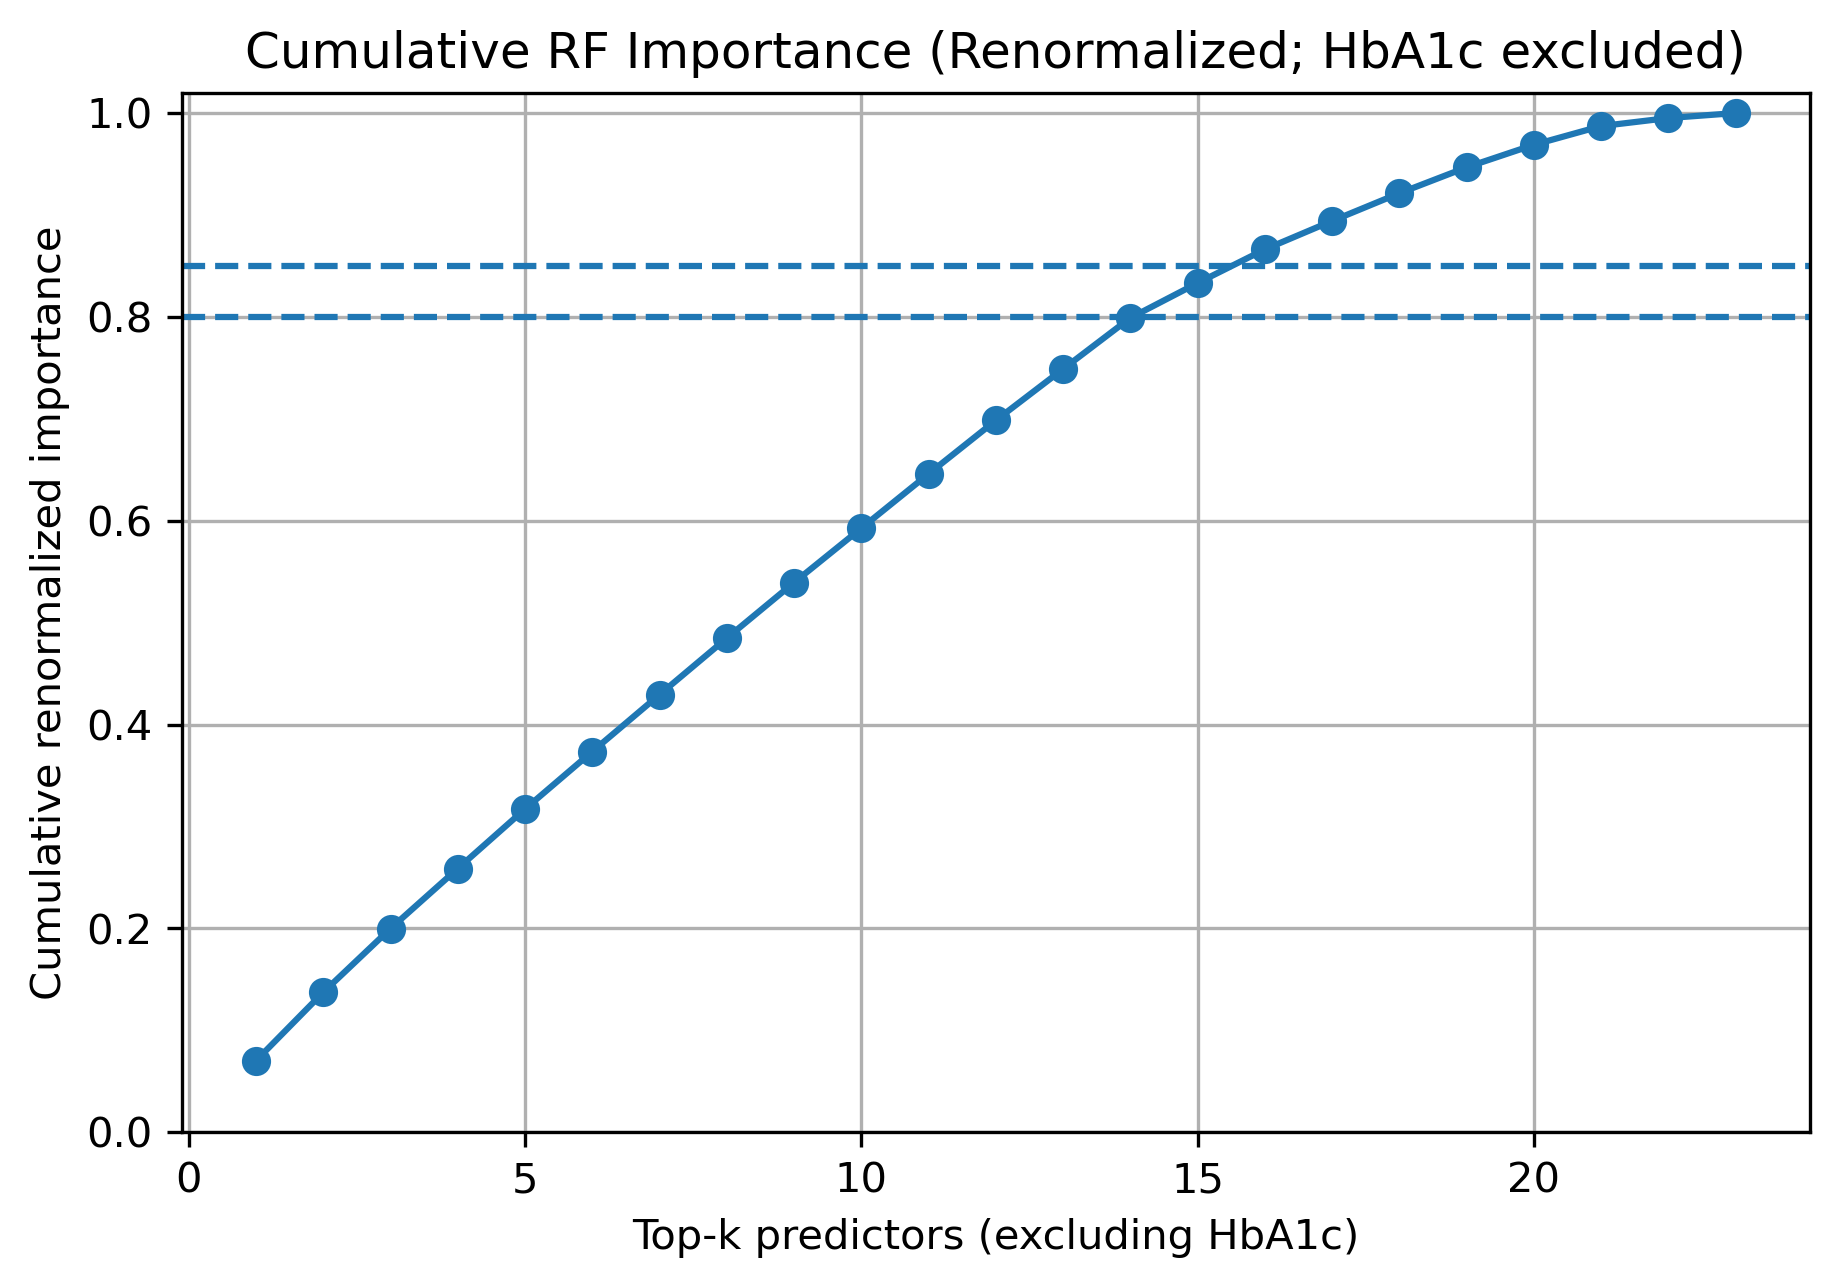
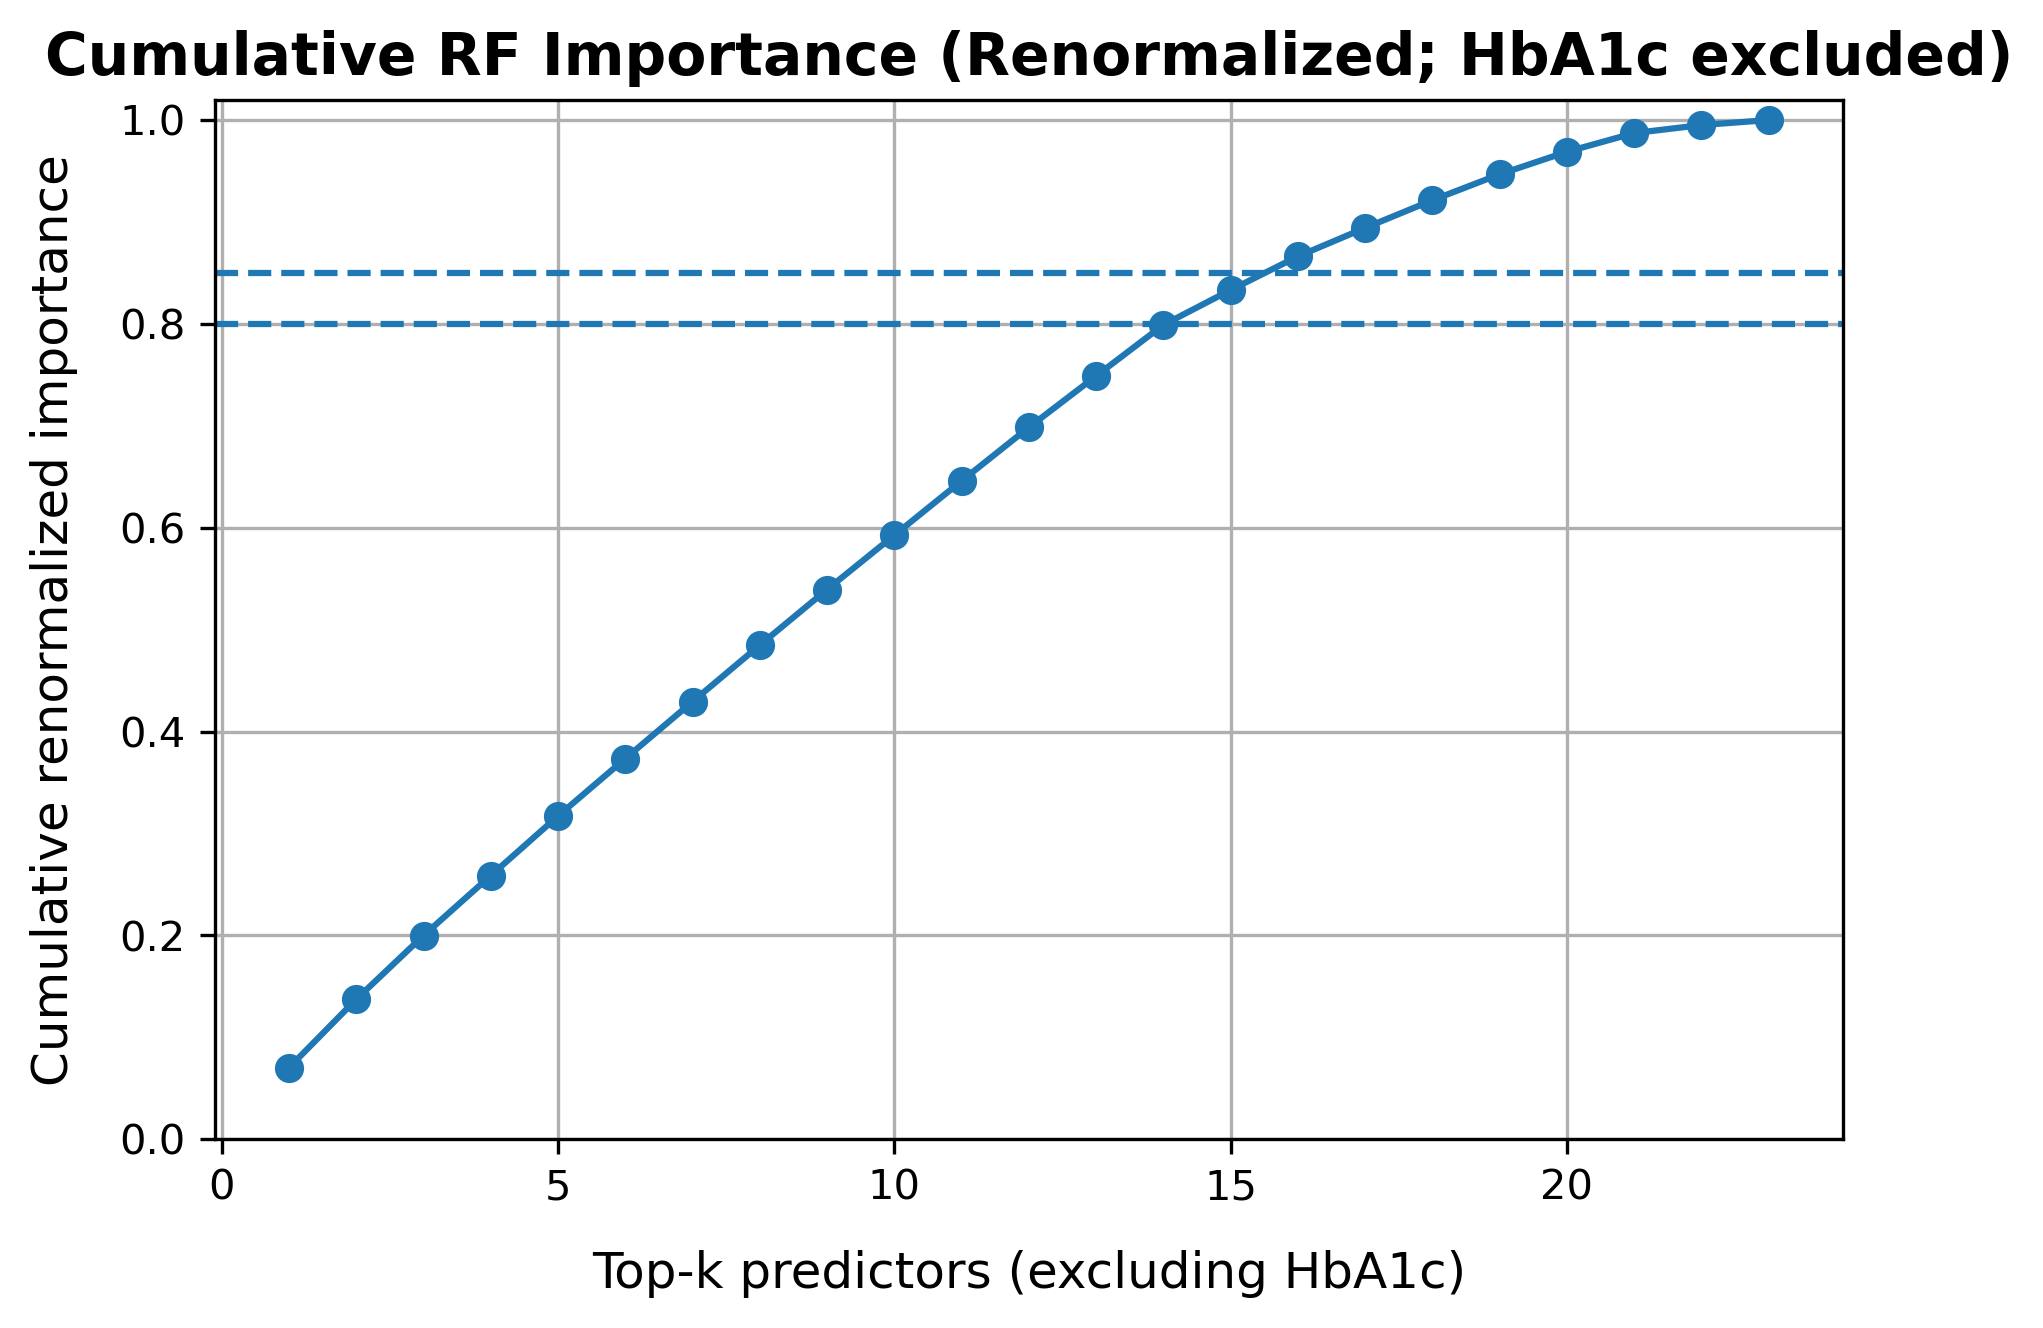
Updated plots with new defaults.

diff --git a/src/viz.py b/src/viz.py
@@ -17,12 +17,6 @@ from pathlib import Path
 import matplotlib.pyplot as plt
 import pandas as pd
 
-
-def set_plot_defaults():
-    plt.rcParams["figure.figsize"] = (7, 4.5)
-    plt.rcParams["axes.grid"] = True
-
-
 def set_plot_defaults(
     *,
     figsize: tuple[float, float] = (7.0, 4.5),
